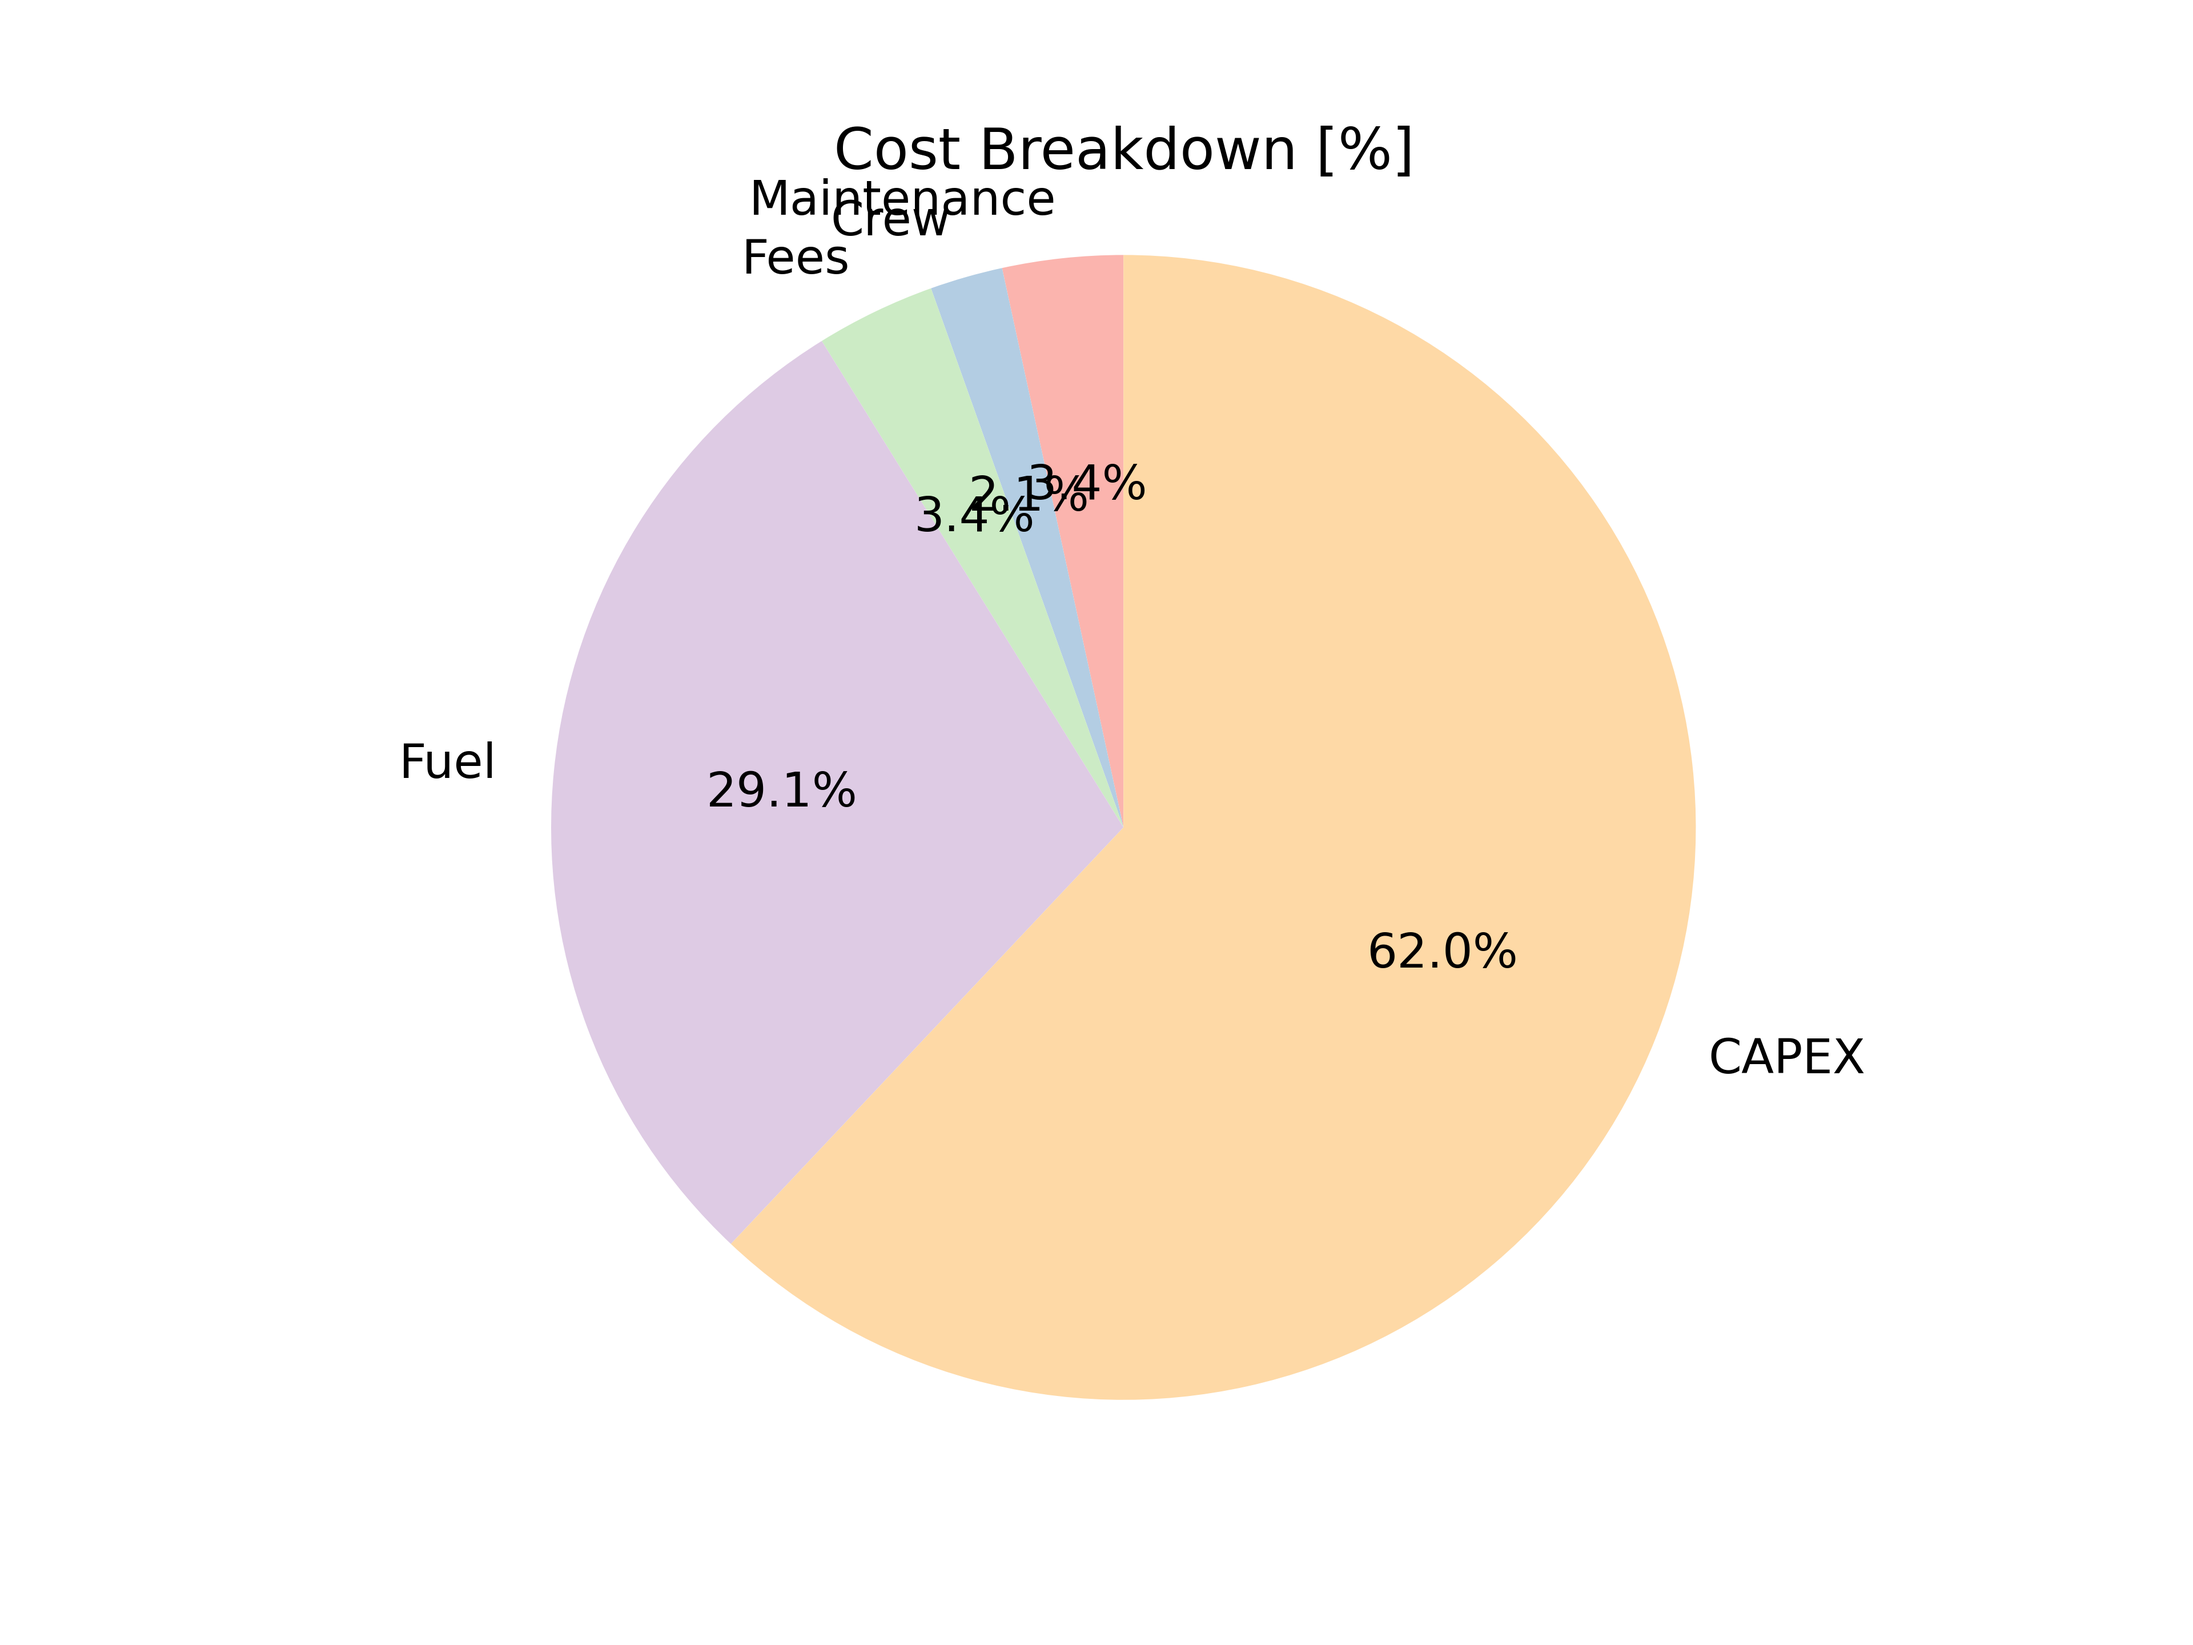
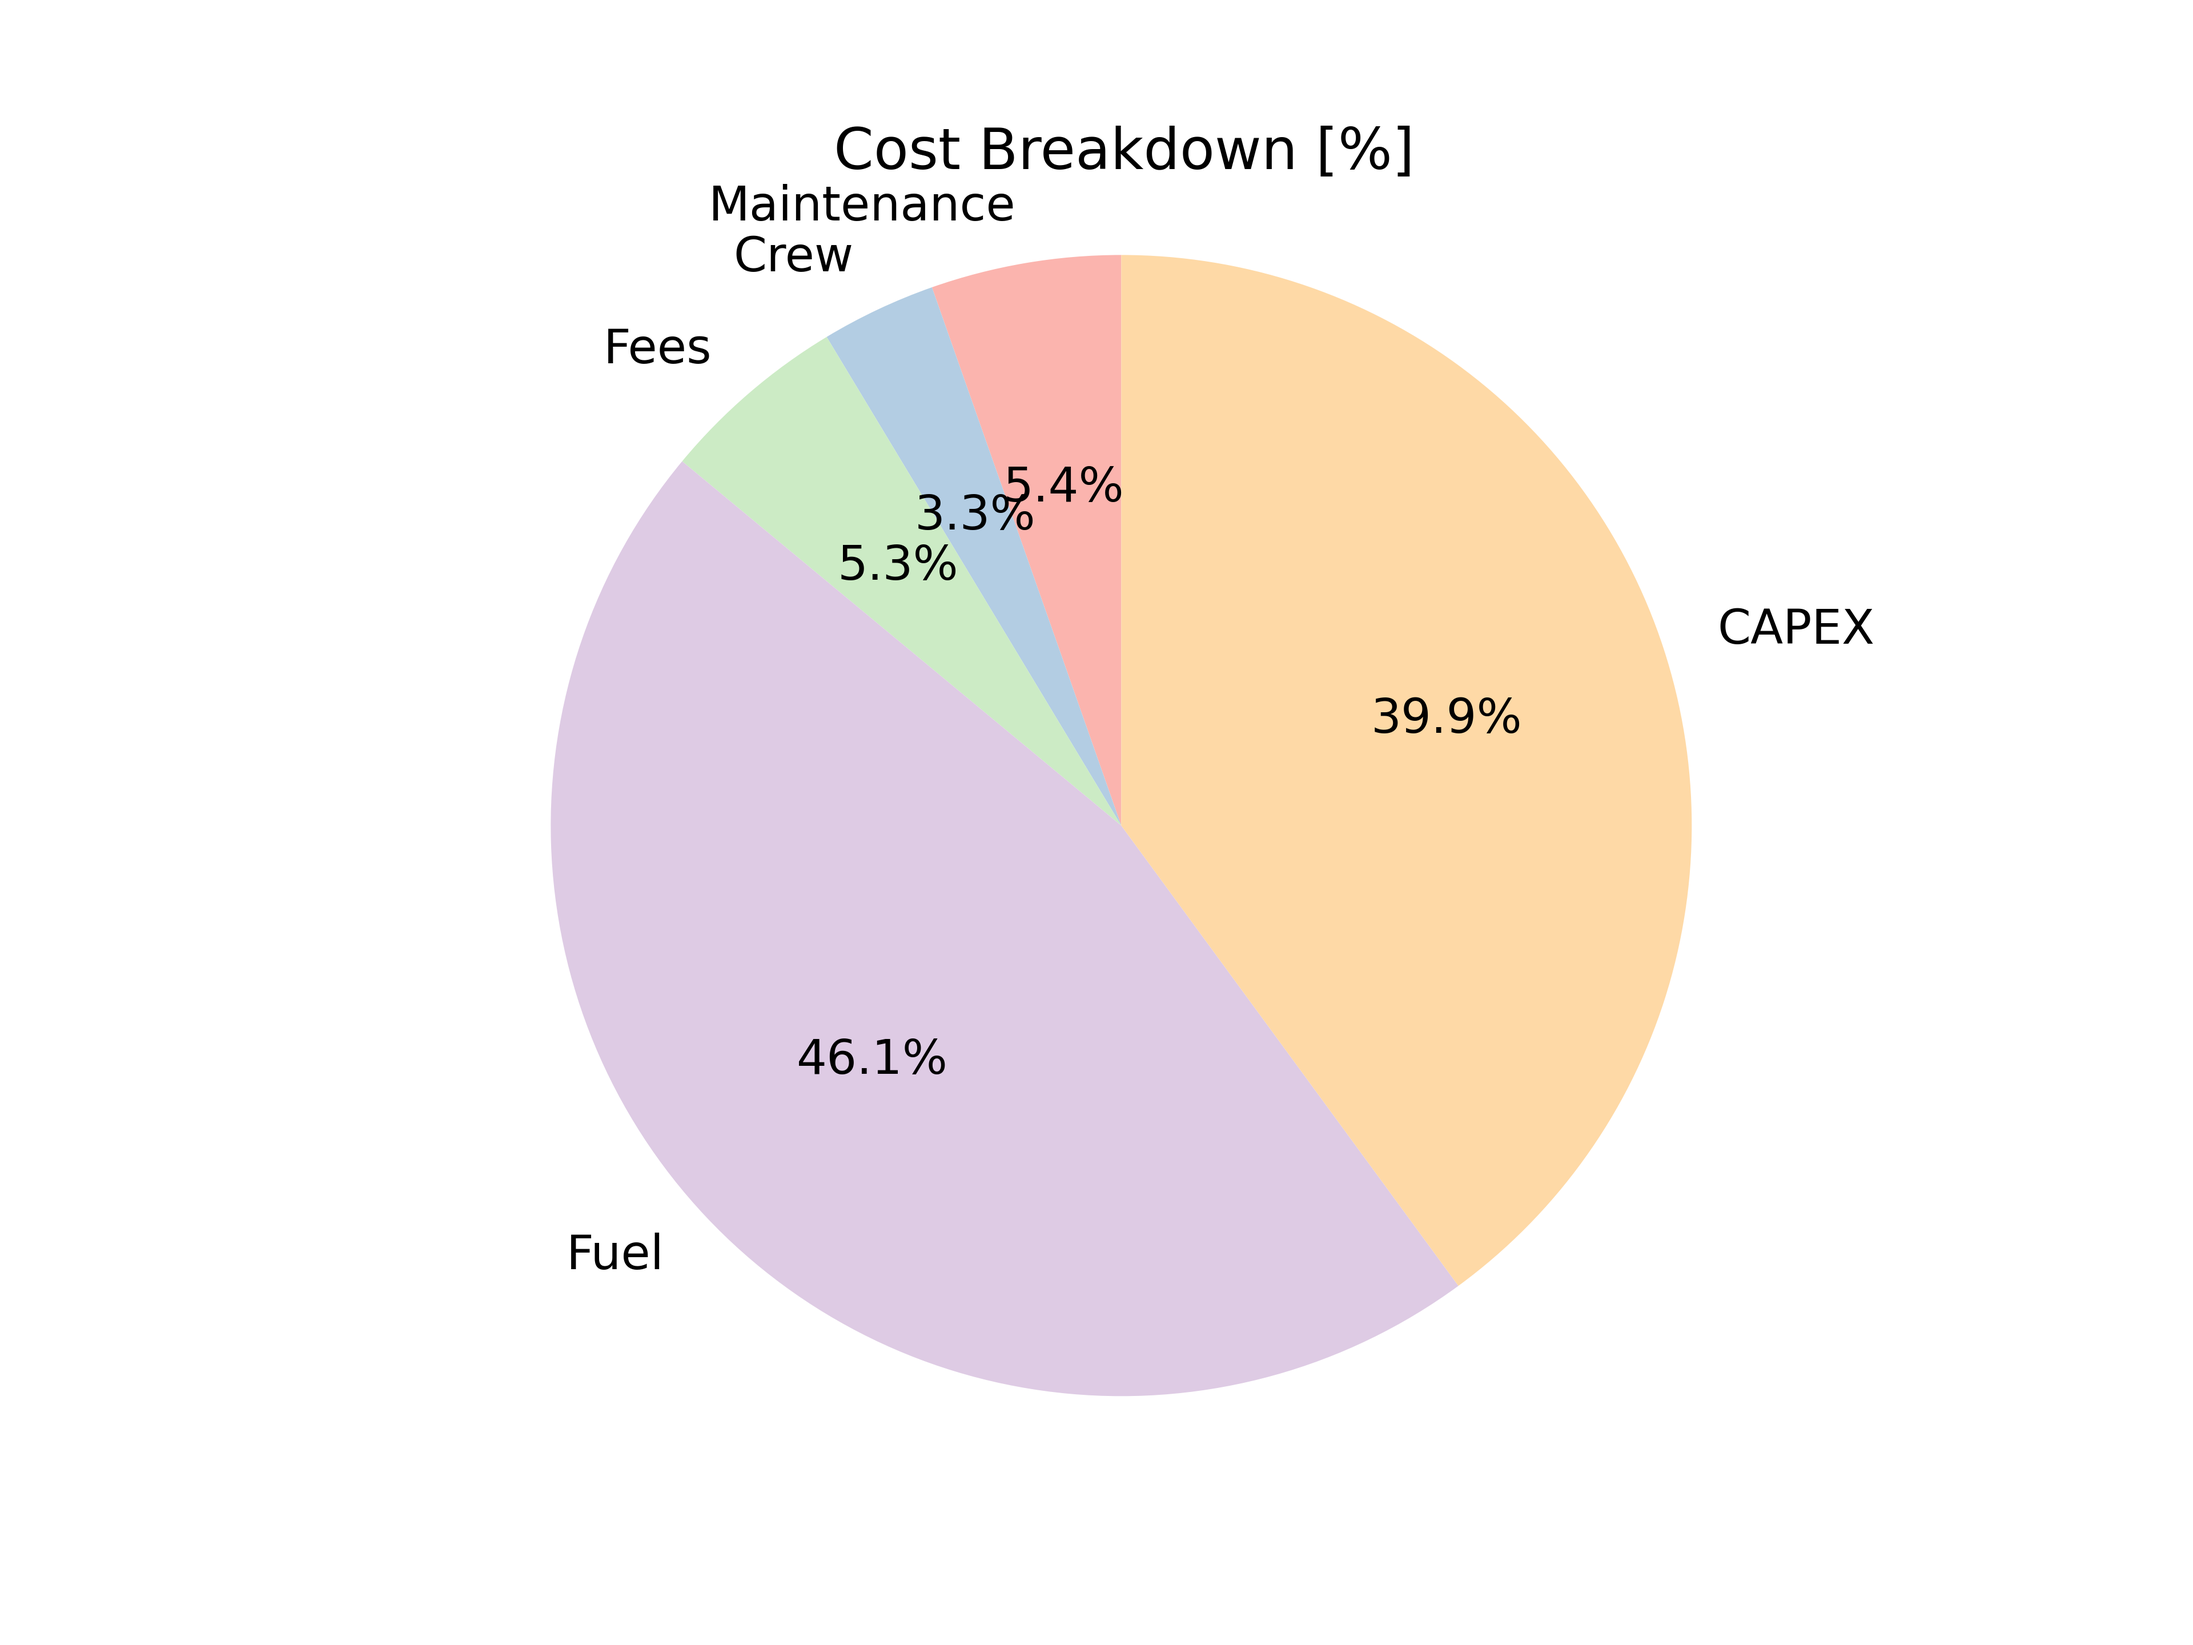
Updated DOC

diff --git a/conceptualDesign/marketStuff.py b/conceptualDesign/marketStuff.py
@@ -23,17 +23,17 @@ f_atc = 0.7  # [-] 0.7 as ATC fees for transatlantic
 # TODO: Revise CAPEX calculations to incorporate fuel tank costs properly
 # TODO: Do cost calculation for GH2 vs LH2
 P_OEW = 1200  # [$/kg] operating empty weight
-W_eng = 200  # Weight per engine
+W_eng = 200  # Weight per engine [kg]
 P_eng = 2600  # [$/kg] engine
 P_fc = 608  # [$/kg] fuel cell
 P_tank = 475  # [$/kg] GH2
 
-IR = 0.05  # Interest rate
-f_rv = 0.1  # Residual value factor
-f_ins = 0.005  # Insurance cost
-f_misc = 0.05  # Misc contingency factor to account for new tech
-PMac = 0.2  # 20% profit margin for manufacturer
-DP = 14  # Depreciation period
+IR = 0.05  # 5% Interest rate
+f_rv = 0.1  # 10% Residual value factor
+f_ins = 0.005  # 0.5% insurance cost
+f_misc = 0.05  # Misc 5% contingency factor to account for new tech
+PMac = 0.0  # typically 20% profit margin for manufacturer
+DP = 14  # Depreciation period [yrs]
 
 
 def marketStuff(params):
@@ -73,8 +73,12 @@ def marketStuff(params):
     # DOC capex (engines, fuel cell, fuel tak, cont. factor incl)
     # TODO: Revise Pac calc. Should the other masses be subtracted from OEW?
     a = IR * (1 - f_rv * (1 / (1 + IR)) ** DP) / (1 - (1 / (1 + IR)) ** DP)
-    Pac = (P_OEW * (OEW - W_eng * params["engineCount"]) + W_eng * params["engineCount"] * P_eng + params[
+    # Pac = (P_OEW * (OEW - W_eng * params["engineCount"]) + W_eng * params["engineCount"] * P_eng + params[
+    # "balloonStructuralMass"] * P_tank + params["fuelCellMass"] * P_fc) * (1 + PMac + f_misc)
+    Pac = (P_OEW * (OEW - W_eng * params["engineCount"] - params[
+        "balloonStructuralMass"] - params["fuelCellMass"]) + W_eng * params["engineCount"] * P_eng + params[
         "balloonStructuralMass"] * P_tank + params["fuelCellMass"] * P_fc) * (1 + PMac + f_misc)
+
     DOC_cap = Pac * (a + f_ins)
 
     # print(Pac)
@@ -90,7 +94,7 @@ def marketStuff(params):
     frac_fuel = DOC_fuel / DOC * 100
     frac_cap = DOC_cap / DOC * 100
     print(f"Aircraft Price [$]: {Pac}")
-    print(f"Direct Operating Cost [$]: {params['costPerPassengerKilometer']}")
+    print(f"Direct Operating Cost / ASK [$/pax/km]: {params['costPerPassengerKilometer']}")
     print(f"Cost breakdown [%]: {frac_maintenance}, {frac_crew}, {frac_fees }, { frac_fuel}, {frac_cap}")
 
     # Make pie chart
@@ -102,21 +106,3 @@ def marketStuff(params):
     plt.axis('equal')
     plt.savefig("plots\CostBreakdown", dpi = 600)
     # plt.show()
-
-
-# if __name__ == "__main__":
-#     x = {
-#         "totalMass": 800e3,
-#         "fuelMass": 82e3,
-#         "velocity": 200,
-#         "flightRange": 8000e3,  # m
-#         "payloadMass": 120000,
-#         "pilotCount": 2,
-#         "passengers": 1000,
-#         "engineCount": 86,
-#         "engineThrust": 6600,  # power / velocity
-#         "tankMass": 100000,
-#         "fuelcellMass": 20000
-#     }
-
-    # marketStuff(x)
